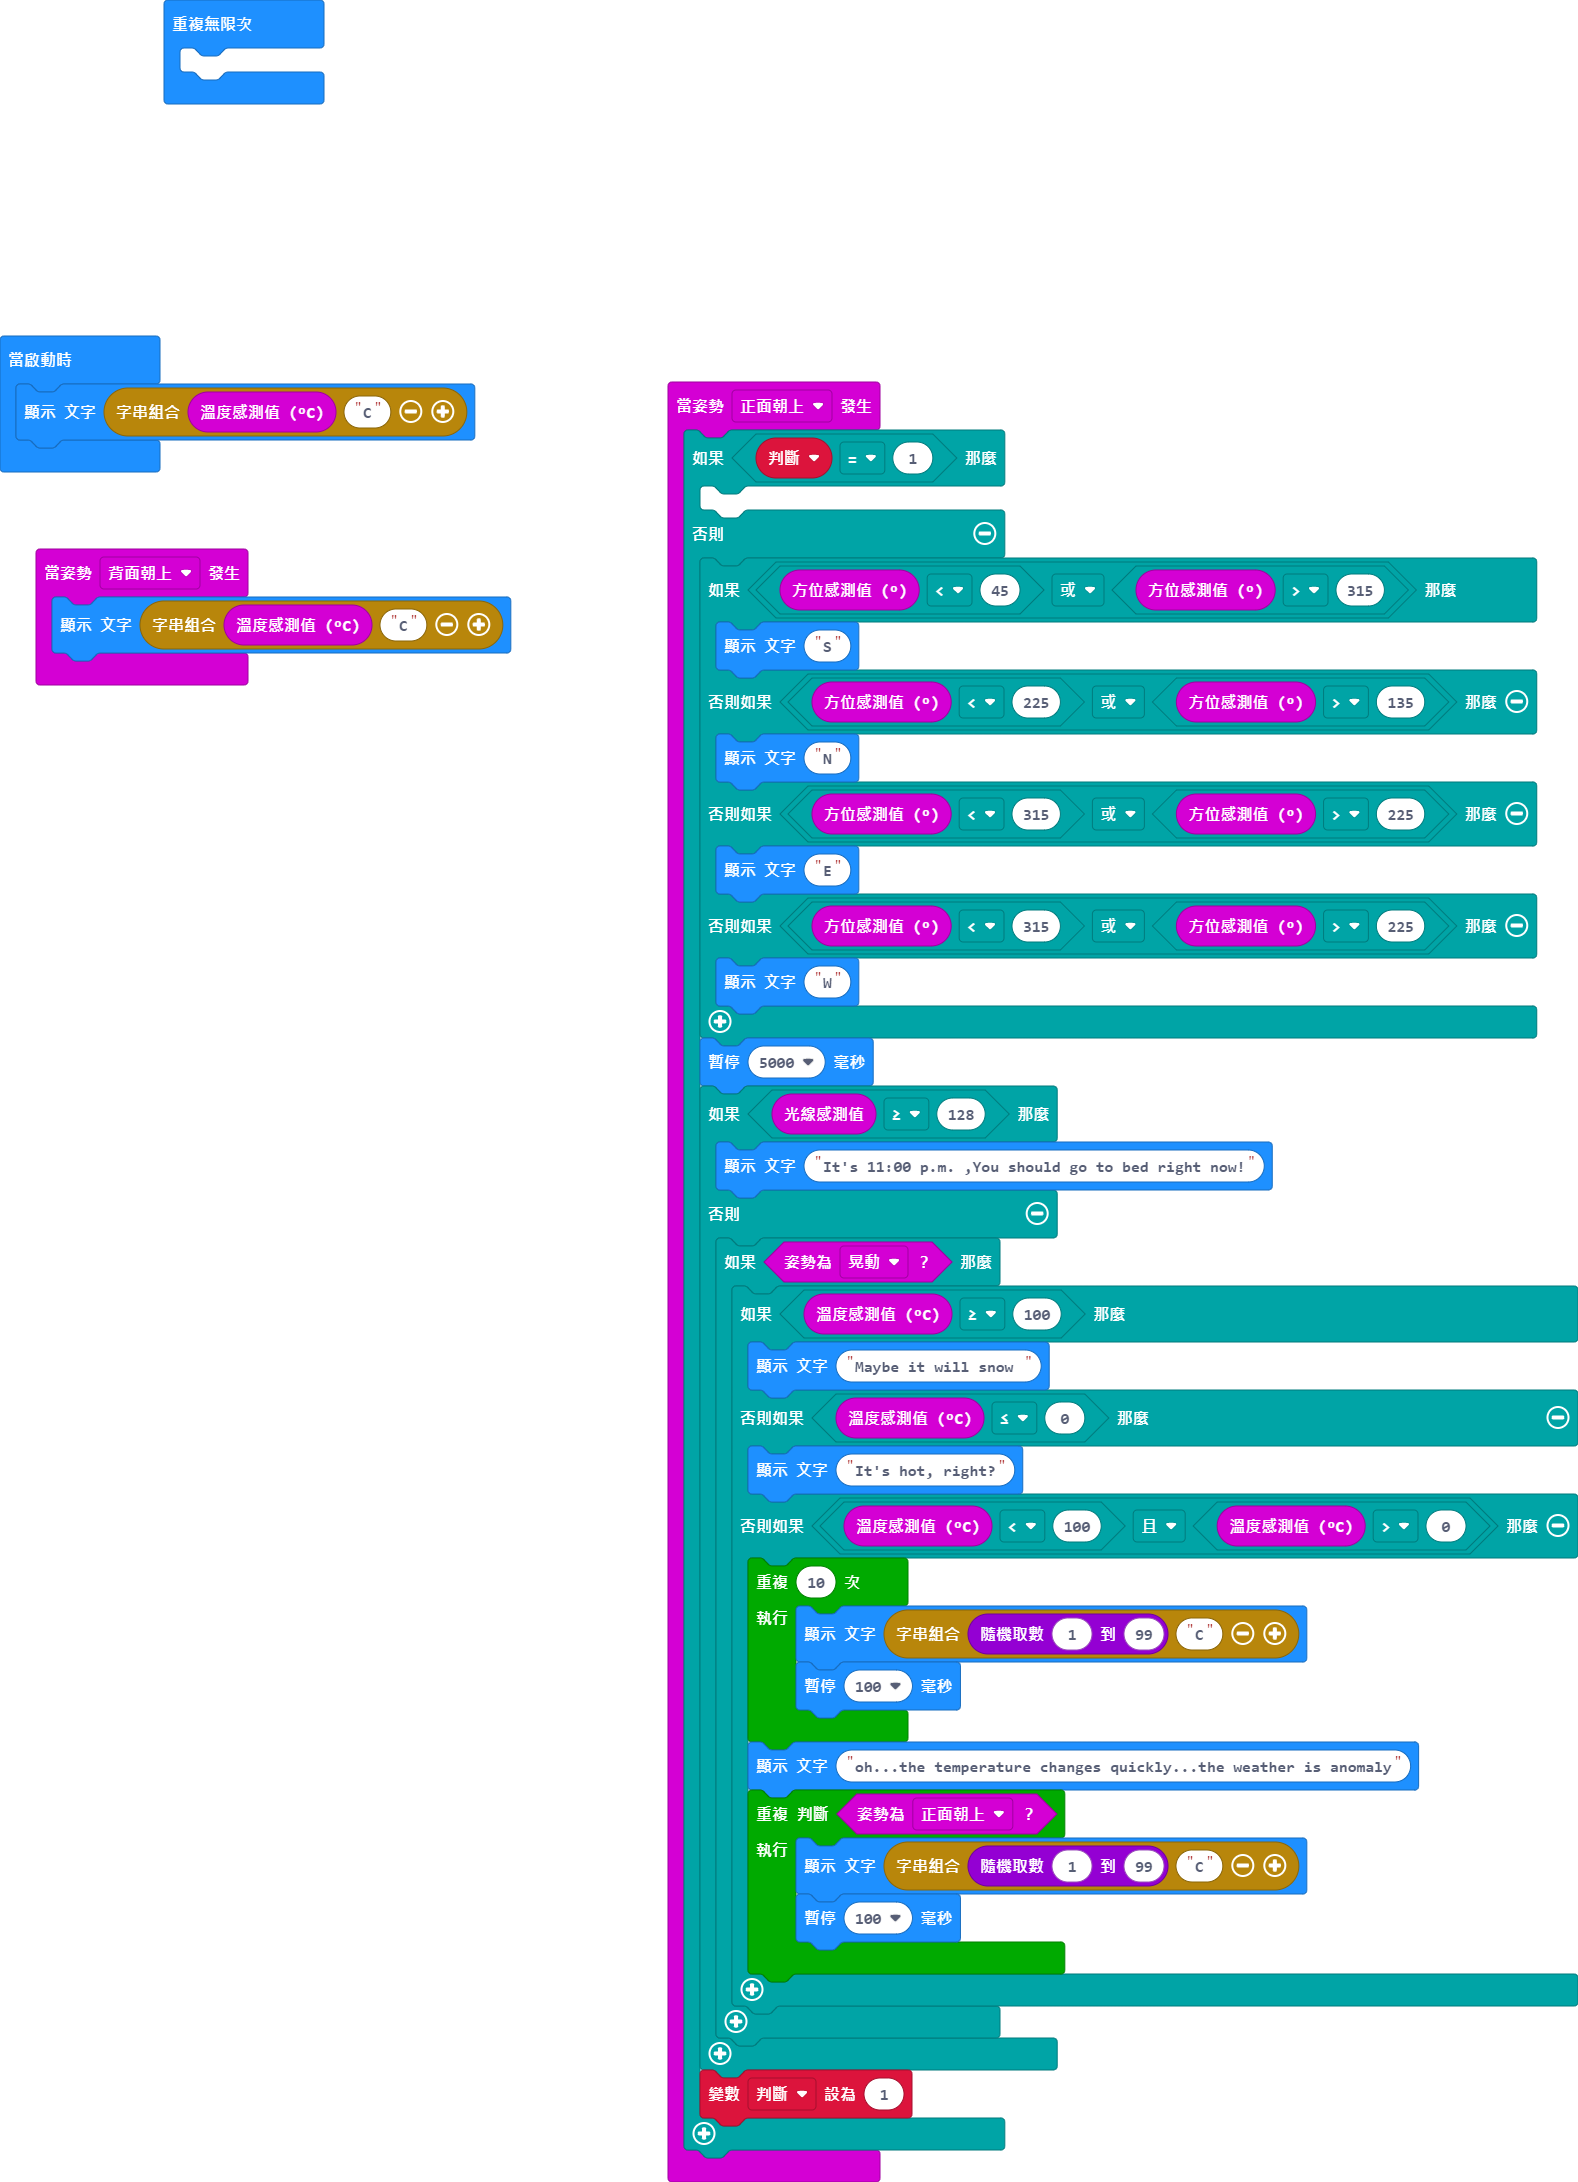
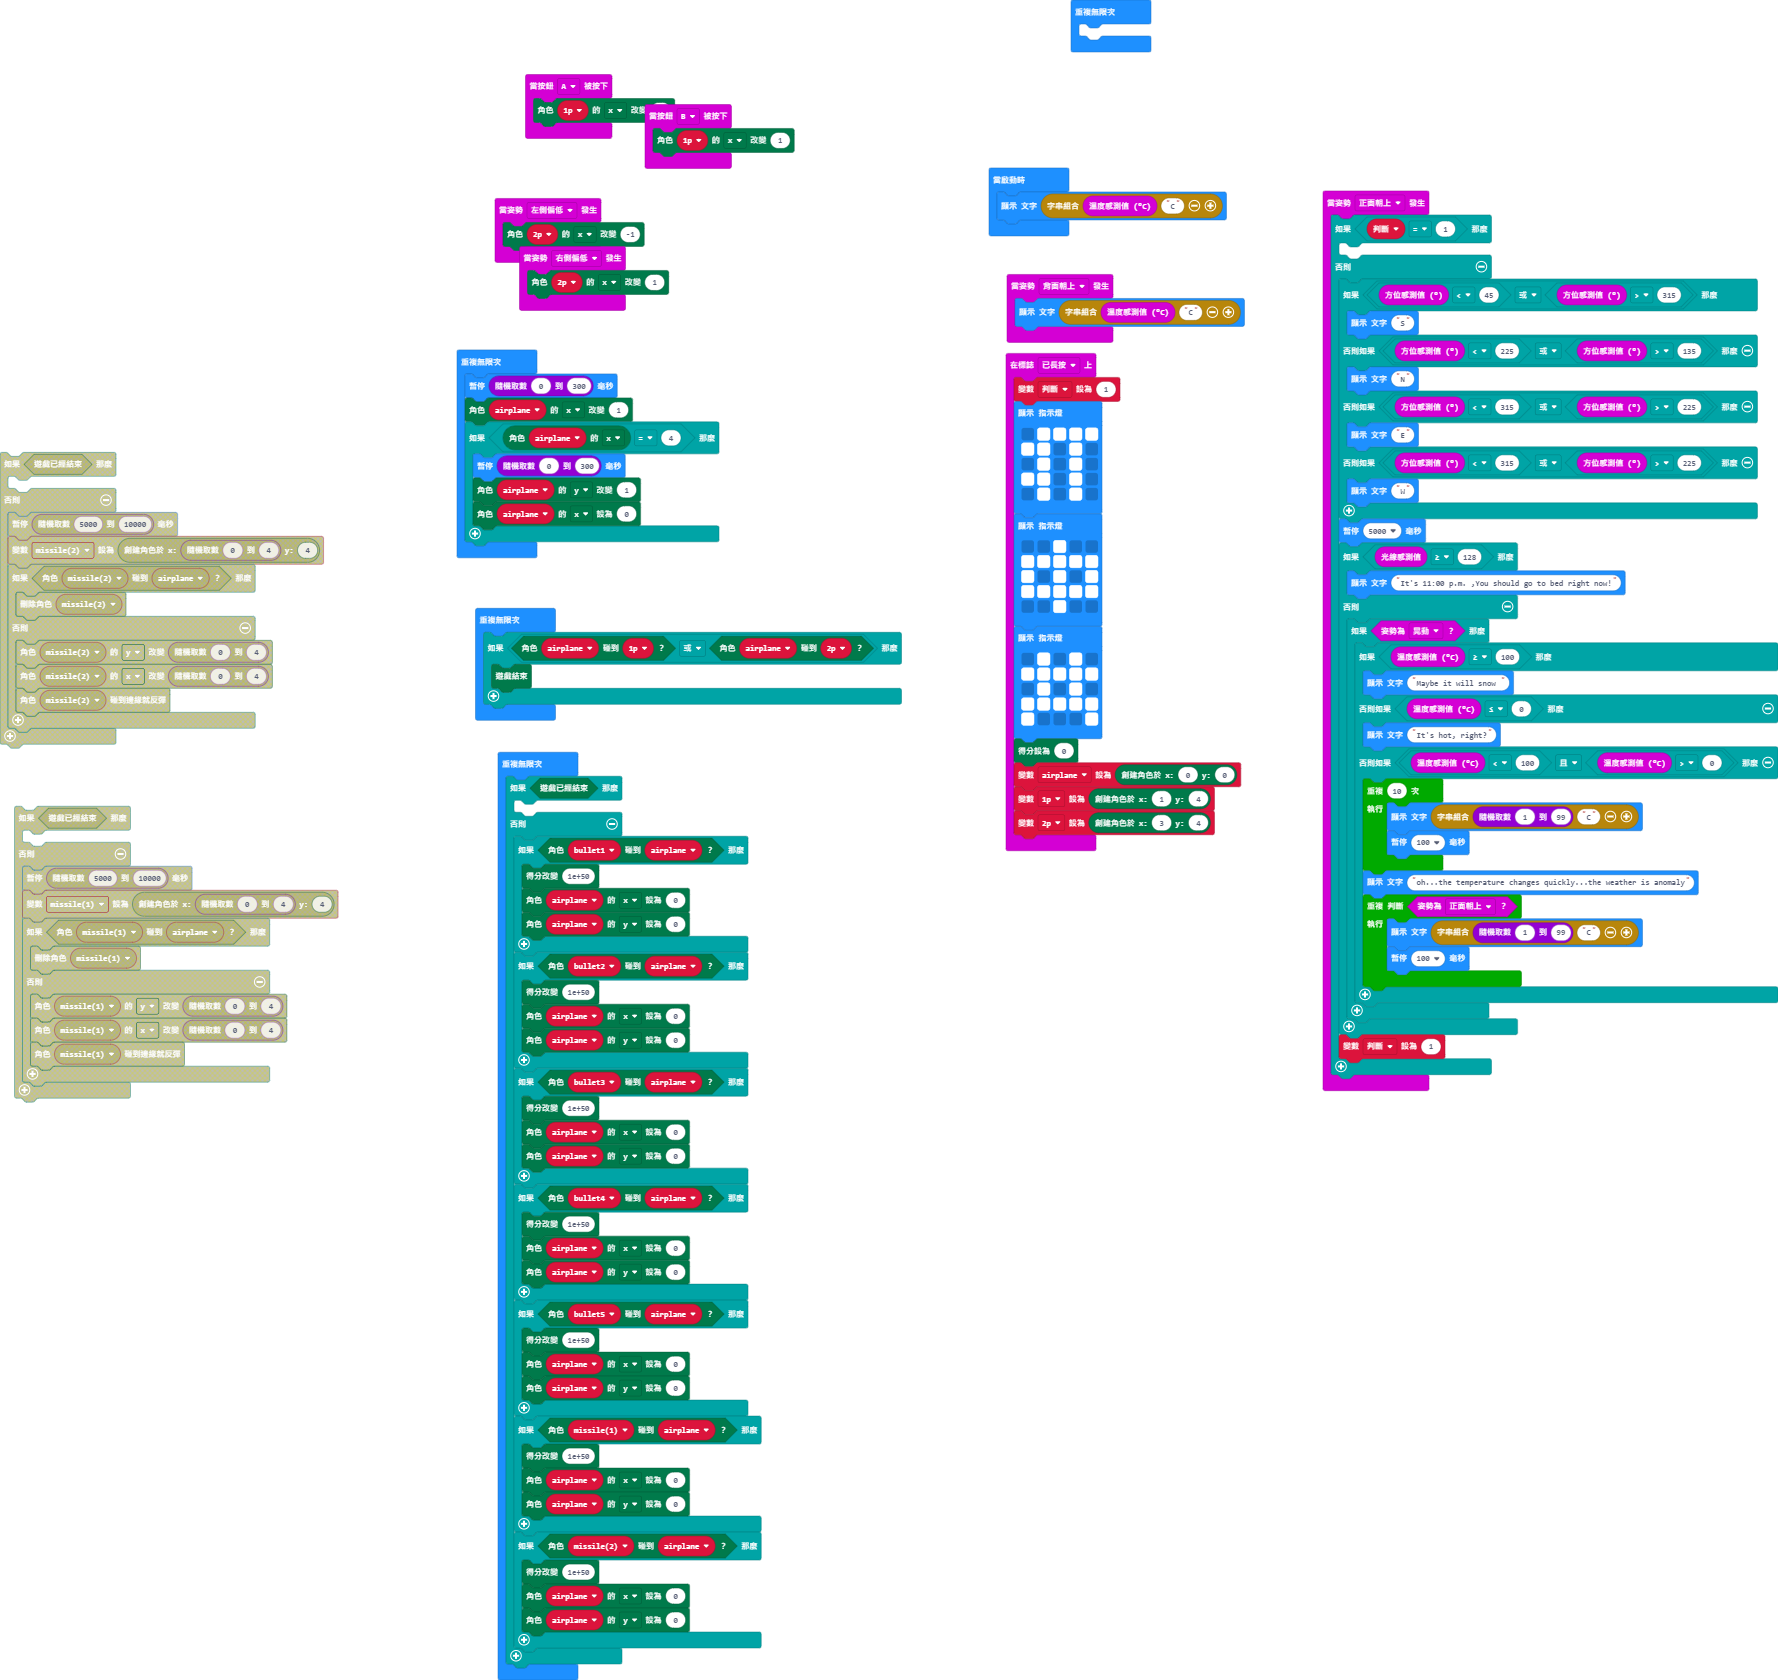
更新 main.blocks, main.ts

diff --git a/main.ts b/main.ts
@@ -1,5 +1,39 @@
+input.onGesture(Gesture.TiltLeft, function () {
+    _2p.change(LedSpriteProperty.X, -1)
+})
+input.onLogoEvent(TouchButtonEvent.LongPressed, function () {
+    判斷 = 1
+    basic.showLeds(`
+        . # # # #
+        # # . # .
+        . # . # .
+        # # . # .
+        . # . # .
+        `)
+    basic.showLeds(`
+        . . # . .
+        # # # # #
+        # . # . #
+        # # # # #
+        . . # . .
+        `)
+    basic.showLeds(`
+        . # . # .
+        # # # # #
+        . # . # .
+        # # # # #
+        # . . . #
+        `)
+    game.setScore(0)
+    airplane = game.createSprite(0, 0)
+    _1p = game.createSprite(1, 4)
+    _2p = game.createSprite(3, 4)
+})
 input.onGesture(Gesture.ScreenDown, function () {
     basic.showString("" + input.temperature() + "C")
+})
+input.onButtonPressed(Button.A, function () {
+    _1p.change(LedSpriteProperty.X, -1)
 })
 input.onGesture(Gesture.ScreenUp, function () {
     if (判斷 == 1) {
@@ -39,8 +73,79 @@ input.onGesture(Gesture.ScreenUp, function () {
         判斷 = 1
     }
 })
+input.onButtonPressed(Button.B, function () {
+    _1p.change(LedSpriteProperty.X, 1)
+})
+input.onGesture(Gesture.TiltRight, function () {
+    _2p.change(LedSpriteProperty.X, 1)
+})
+let _1p: game.LedSprite = null
+let airplane: game.LedSprite = null
 let 判斷 = 0
+let _2p: game.LedSprite = null
 basic.showString("" + input.temperature() + "C")
 basic.forever(function () {
 	
+})
+basic.forever(function () {
+    basic.pause(randint(0, 300))
+    airplane.change(LedSpriteProperty.X, 1)
+    if (airplane.get(LedSpriteProperty.X) == 4) {
+        basic.pause(randint(0, 300))
+        airplane.change(LedSpriteProperty.Y, 1)
+        airplane.set(LedSpriteProperty.X, 0)
+    }
+})
+basic.forever(function () {
+    if (airplane.isTouching(_1p) || airplane.isTouching(_2p)) {
+        game.gameOver()
+    }
+})
+basic.forever(function () {
+    if (game.isGameOver()) {
+    	
+    } else {
+        let missile2: game.LedSprite = null
+        let missile1: game.LedSprite = null
+        let bullet5: game.LedSprite = null
+        let bullet4: game.LedSprite = null
+        let bullet3: game.LedSprite = null
+        let bullet2: game.LedSprite = null
+        let bullet1: game.LedSprite = null
+        if (bullet1.isTouching(airplane)) {
+            game.addScore(1e+50)
+            airplane.set(LedSpriteProperty.X, 0)
+            airplane.set(LedSpriteProperty.Y, 0)
+        }
+        if (bullet2.isTouching(airplane)) {
+            game.addScore(1e+50)
+            airplane.set(LedSpriteProperty.X, 0)
+            airplane.set(LedSpriteProperty.Y, 0)
+        }
+        if (bullet3.isTouching(airplane)) {
+            game.addScore(1e+50)
+            airplane.set(LedSpriteProperty.X, 0)
+            airplane.set(LedSpriteProperty.Y, 0)
+        }
+        if (bullet4.isTouching(airplane)) {
+            game.addScore(1e+50)
+            airplane.set(LedSpriteProperty.X, 0)
+            airplane.set(LedSpriteProperty.Y, 0)
+        }
+        if (bullet5.isTouching(airplane)) {
+            game.addScore(1e+50)
+            airplane.set(LedSpriteProperty.X, 0)
+            airplane.set(LedSpriteProperty.Y, 0)
+        }
+        if (missile1.isTouching(airplane)) {
+            game.addScore(1e+50)
+            airplane.set(LedSpriteProperty.X, 0)
+            airplane.set(LedSpriteProperty.Y, 0)
+        }
+        if (missile2.isTouching(airplane)) {
+            game.addScore(1e+50)
+            airplane.set(LedSpriteProperty.X, 0)
+            airplane.set(LedSpriteProperty.Y, 0)
+        }
+    }
 })
